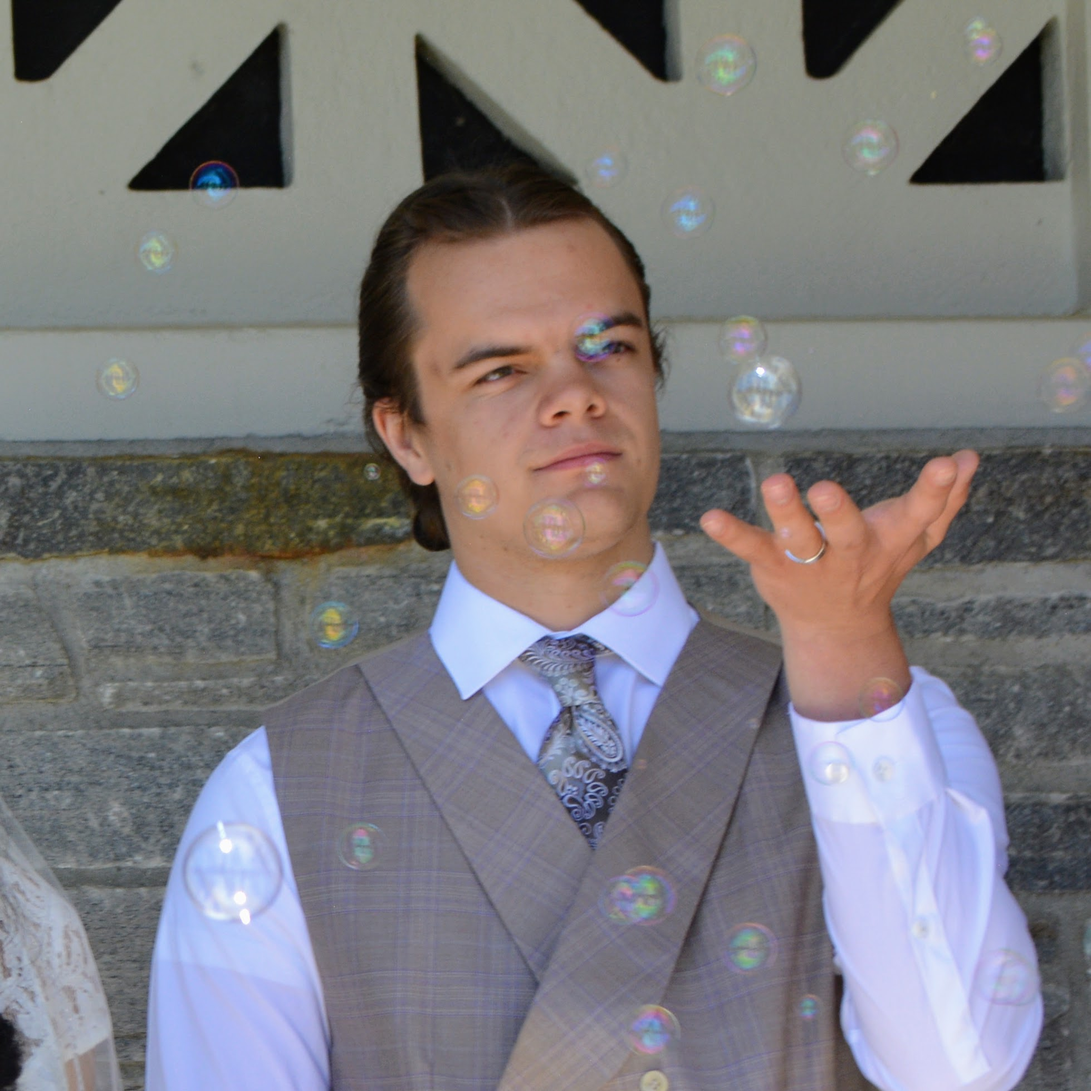
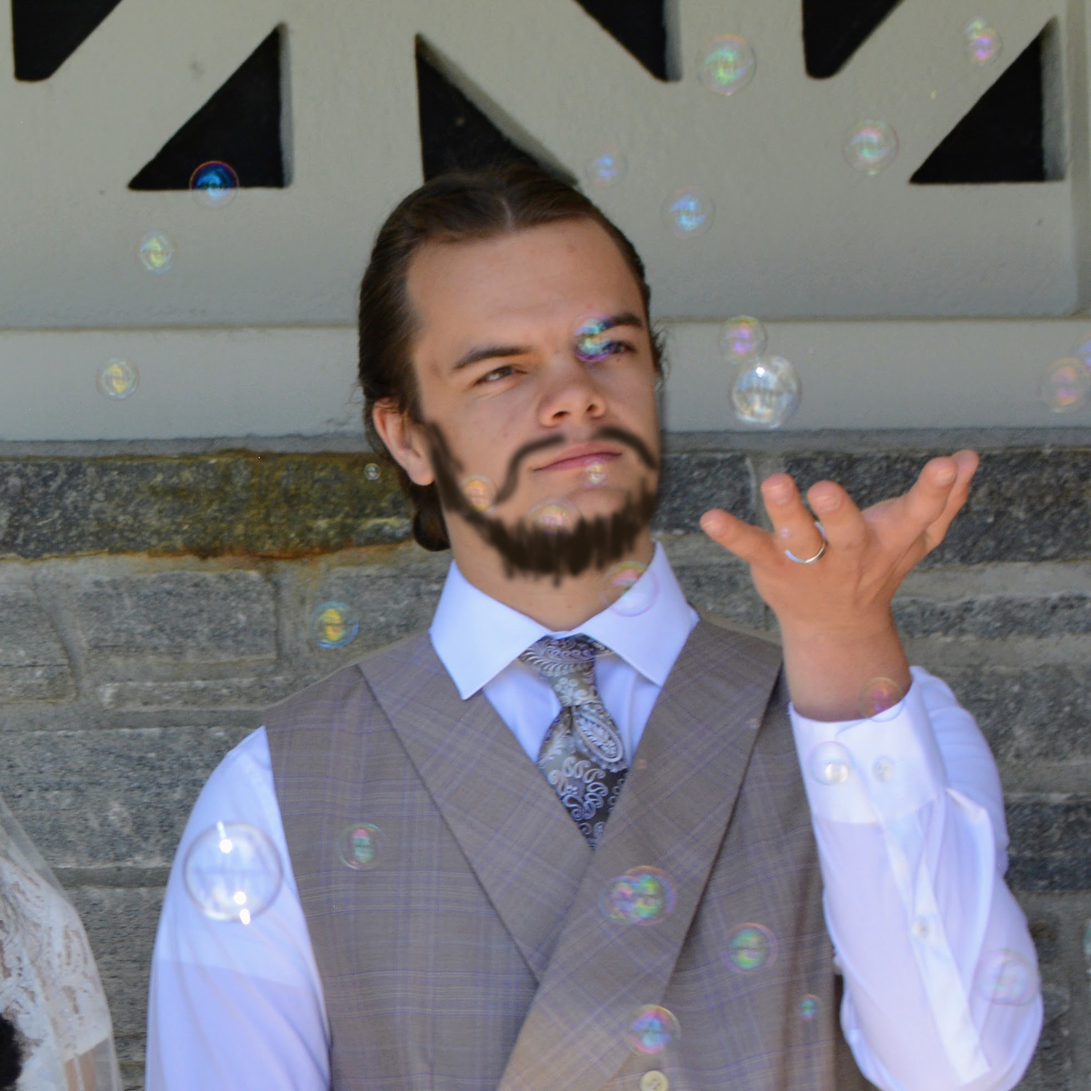
Finish redesign

Changed region(s): [[0.3737, 0.3423, 0.6228, 0.5602]]

diff --git a/index.html b/index.html
@@ -5,42 +5,52 @@
     <meta charset="utf-8" />
     <meta name="viewport" content="width=device-width, initial-scale=1" />
     <link rel="stylesheet" href="assets/css/main.css" />
-
-    <!--
-      <meta http-equiv="refresh" content="5"/>
-    -->
   </head>
   <body>
     <article>
-      <img src="images/brendon-bubbles.jpg"
-           alt="This picture doesn't do my hair length justice."
-           style="width:300px; float:right"
-           />
+      <div style="width:300px; float:right; text-align: center;" >
+        <img src="images/brendon-bubbles.jpg" style="width: 100%;" />
+        <span> You will have to accept an artist's rendition of my facial hair for now. </span>
+      </div>
       <section>
-        <h1>Brendon Boldt</h1>
+        <h1>Brendon Miller- Boldt</h1>
+
+        <p> Give thanks to the Lord for He is good.  His mercy endures forever.  </p>
 
         <p>
-        I am a Master of Language Technology student at Carnegie Mellon
-        University's Language Technology Institute working with David Mortensen.
-        My primary interest is artificial emergent languages from the
-        perspectives of machine learning, natural language processing,
-        information, linguistics, and philosophy.  Phrased as a series of
-        questions,
-        <ul>
-          <li>What kind of language can machine learning-equipped agents invent in order to cooperate on a task?</li>
-          <li>What attributes in the environment correspond to attributes in the emergent language?</li>
-          <li>Instead of starting with a fully-formed language and building up an agent's proficiency in it,
-            can we build up the agent's proficiency as the language is developed from scratch?</li>
-          <li>What even is an interesting question in emergent language? We cannot wantonly throw together experiments and expect knowledge to come out.</li>
-          <li>What are the most productive research directions for reaching a working theory and practice of emergent language?</li>
-        </ul>
+        I am a Catholic, husband, father, philosopher, researcher, and wearer of a few other hats. Surname-wise,
+        I go by "Miller-Boldt" personally and "Boldt" professionaly.
+        My current profession is pursing a PhD at Carnegie Mellon University's Language Technology Institute working with David Mortensen.
+        My research centers around meta-scientific issues in computer simulations of language evolving from scratch, that is, <em>emergent language</em>.
+        This research naturally incorporates aspects of linguistics, philosophy of science, machine learning, natural language processing, and information theory.
+        At the moment, I intend to achieve the following in my dissertation:
+        <ol>
+          <li>Descrying what aspects of human language emergent language ought to replicate in order to be useful for linguistics, natural language processing, robotics, and beyond</li>
+          <li>Creating a well-defined metric (or set thereof) for quantifying these aspects of human language</li>
+          <li>Illustrating how to organize individual research works on emergent language into cohesive, general knowledge about the field</li>
+        </ol>
         </p>
       </section>
 
       <section>
-        <h2>Publications</h2>
+        <h2>Publications and Preprints</h2>
+        <p>
+        Selected Works
+        <ul>
+          <li>
+            <strong>Case Study: Deontological Ethics in NLP</strong> -
+            Equal co-author with <em>Shrimai Prabhumoye</em> discussing
+            specifically how NLP literature addressing ethical issues could
+            benefit from taking a more philosophically rigorous approach. In
+            this case we look at applying deontological principles to ethical
+            reasoning in NLP.
+            (Published at NAACL 2021, <a href="https://arxiv.org/abs/2010.04658">arXiv</a>)
+          </li>
+        </ul>
+        </p>
 
         <p>
+        For a full list of publication, please look at Google Scholar.
         <a href="https://scholar.google.com/citations?user=QEXlK3AAAAAJ&hl=en">Google Scholar</a>
         </p>
       </section>
@@ -48,8 +58,10 @@
       <section>
         <h2>Education</h2>
         <ul>
+          <li> <em>Carnegie Mellon University</em> - PhD in Language and Information Technology (Pittsburgh, PA; 2021-present; in progress) </li>
           <li> <em>Carnegie Mellon University</em> - Master of Language Technology (Pittsburgh, PA; 2019-2021; in progress) </li>
           <li> <em>Marist College</em> - B.S. in Computer Science and Philosophy (Poughkeepsie, NY; 2014-2018) </li>
+          <li> <em>Providence Academy</em> - Catholic K-12 Education (Plymouth, MN; 2001-2014) </li>
           <!--
             <li> Minors: Mathematics, Cognitive Science, Information Technology, Information Systems </li>
             <li> 3.96 GPA; Honors Program </li>
@@ -94,6 +106,26 @@
         Much of the work I do in philosophy also relates computing, so if you are interested in the intersection between language, cognition, philosophy, and computers, definitely check the <a href="philosophy.html">page</a> out.
         Most of the philosophy paper are from my undergraduate years, and my experience since then has shed light on the shortfallings of these works. That being said, I think that is a positive observation, lest my intellectual development have stagnated!
         </p>
+      </section>
+
+      <section>
+        <h3>Miscellaneous</h3>
+        <ul>
+          <li>
+            Email: Brendon BOLDT AT CompSci . Carnegie Mellon University . EDUcational institution (capital letters only)
+
+          </li>
+          <li>
+            Links:
+            <a href="https://github.com/brendon-boldt/">GitHub</a>,
+            <a href="https://www.linkedin.com/in/brendonjboldt/">LinkedIn</a>,
+            <a href="https://scholar.google.com/citations?user=QEXlK3AAAAAJ">Google Scholar</a>,
+            <a href="https://www.lti.cs.cmu.edu/people/222227261/brendon-boldt">LTI @ CMU</a>
+          </li>
+          <li> Tasteful website design and thoughtful content licensed under <a href="http://creativecommons.org/licenses/by-sa/4.0/?ref=chooser-v1" target="_blank" rel="license noopener noreferrer">CC BY-SA 4.0</a>
+          </li>
+
+        </ul>
       </section>
 
     </article>

diff --git a/assets/css/main.css b/assets/css/main.css
@@ -1,6 +1,11 @@
 article {
   max-width: 80rem;
-  margin: 3em;
+  margin: 3%;
+}
+
+img {
+  margin-left: 3%;
+  margin-bottom: 3%;
 }
 
 body {
